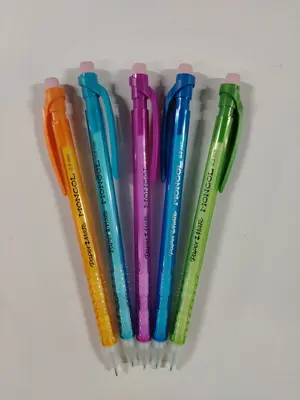
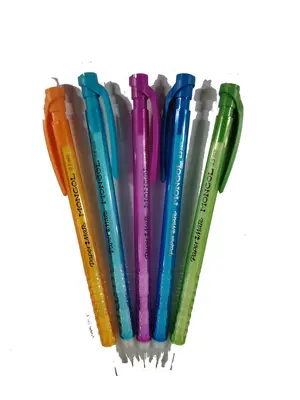
feat: oficina completa 6/6 + fondos corregidos
- Nuevos productos: Calculadoras Casio, Baterías Philips
- Fondo corregido: Artículos Escritura (gris → blanco), Baterías (negro → blanco)
- Oficina ahora tiene 6 productos igual que las demás categorías
- Total catálogo: 24 productos con imagen real

diff --git a/src/pages/Productos.tsx b/src/pages/Productos.tsx
@@ -37,6 +37,8 @@ import imgPapeleria from "@/assets/products/papeleria-pritt.webp";
 import imgTintas from "@/assets/products/impresora-epson.webp";
 import imgOrganizacion from "@/assets/products/tijera-facela.webp";
 import imgEscritura from "@/assets/products/articulos-escritura.webp";
+import imgCalculadora from "@/assets/products/calculadora-casio.webp";
+import imgBaterias from "@/assets/products/baterias-philips.webp";
 
 const categories = [
   {
@@ -97,12 +99,14 @@ const categories = [
     icon: Building2,
     color: "highlight",
     description: "Línea completa de artículos de oficina de marcas reconocidas. Desde papelería básica hasta suministros tecnológicos para mantener su operación funcionando.",
-    brands: ["HP", "Epson", "Faber Castell", "Artline", "Facela"],
+    brands: ["HP", "Epson", "Faber Castell", "Artline", "Facela", "Casio", "Philips"],
     products: [
       { name: "Papelería General", description: "Papel bond, folders, sobres, libretas, agendas, post-it y artículos básicos de oficina.", brand: "Varios", applications: ["Oficinas", "Recepción", "Administración"], image: imgPapeleria },
       { name: "Artículos de Escritura", description: "Bolígrafos, marcadores permanentes, resaltadores, lápices y portaminas de calidad profesional.", brand: "Faber Castell / Artline", applications: ["Oficinas", "Bodegas", "Producción"], image: imgEscritura },
       { name: "Tintas y Tóners", description: "Cartuchos de tinta y tóner originales y compatibles para impresoras HP, Epson y otras marcas.", brand: "HP / Epson", applications: ["Oficinas", "Centros de impresión"], image: imgTintas },
       { name: "Organización y Archivo", description: "Archivadores, carpetas, cajas de archivo, separadores y sistemas de organización documental.", brand: "Facela / Varios", applications: ["Oficinas", "Archivo", "Contabilidad"], image: imgOrganizacion },
+      { name: "Calculadoras y Electrónica", description: "Calculadoras de escritorio y científicas, baterías alcalinas y accesorios electrónicos para oficina.", brand: "Casio / Philips", applications: ["Oficinas", "Contabilidad", "Administración"], image: imgCalculadora },
+      { name: "Baterías y Pilas", description: "Pilas alcalinas AA, AAA, C, D y 9V de alta duración para equipos de oficina, controles y dispositivos.", brand: "Philips", applications: ["Oficinas", "Equipos", "Dispositivos"], image: imgBaterias },
     ],
   },
 ];
